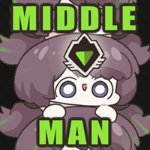
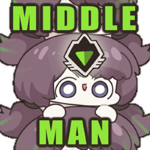
update emblems

diff --git a/djmax_bests/image_generate.py b/djmax_bests/image_generate.py
@@ -7,6 +7,8 @@ from random import random
 
 IMAGE_PATH = os.path.join(os.path.dirname(__file__), "images")
 FONT_PATH = os.path.join(os.path.dirname(__file__), "fonts")
+EMBLEM_PATH = os.path.join(IMAGE_PATH, "emblems")
+EMBLEM_BG_PATH = os.path.join(IMAGE_PATH, "emblem_bg")
 
 def generate_single_song(idx: int, type: str, song: models.DMSong) -> Image.Image:
     overlay = Image.open(os.path.join(IMAGE_PATH, f"{type}_card.png"))
@@ -49,6 +51,7 @@ def generate_bests_image(data: models.DMBests) -> Image.Image:
     basic_start = (100, 688)
     new_start = (100, 3398)
     bmode_strip_box = (119, 36, 151, 468)
+    emblem_lt = (1029, 154)
 
     bg = Image.open(os.path.join(IMAGE_PATH, "bg.png"))
     draw = ImageDraw.Draw(bg)
@@ -61,13 +64,15 @@ def generate_bests_image(data: models.DMBests) -> Image.Image:
     djpower_desc = util.format_djpower_tier(djpower_tier, djpower_level)
     djpower_color = constants.DJPOWER_TIER_COLOR[djpower_tier]
 
-    if djpower_tier == "middleman" and random() < 0.1:
+    if random() < 0.1 and os.path.exists(os.path.join(EMBLEM_PATH, f"{djpower_tier}_0.png")): # Easter egg
         djpower_level = 0
-    else: # this is just a temporary solution and should be removed later
-        djpower_level = ""
 
-    emblem = Image.open(os.path.join(IMAGE_PATH, 'emblems', f"{djpower_tier}_{djpower_level}.png")).resize((370, 370))
-    bg.paste(emblem, (1034, 159))
+    if os.path.exists(os.path.join(EMBLEM_BG_PATH, f"{data.username}.png")):
+        emblem_bg = Image.open(os.path.join(EMBLEM_BG_PATH, f"{data.username}.png")).resize((380, 380))
+        bg.alpha_composite(emblem_bg, emblem_lt)
+
+    emblem = Image.open(os.path.join(EMBLEM_PATH, f"{djpower_tier}_{djpower_level}.png")).resize((380, 380))
+    bg.alpha_composite(emblem, emblem_lt)
     draw.rectangle(bmode_strip_box, fill=constants.BMODE_COLOR[data.bmode])
     draw.text((282, 370), data.bmode, font=font_bd, fill='white', anchor="ms")
     draw.text((1535, 212), data.username, font=font_rg, fill='white', anchor="lm")

diff --git a/djmax_bests/util.py b/djmax_bests/util.py
@@ -8,9 +8,9 @@ def get_overridden_dlc_name(dlc_code: str, og_name: str) -> str:
 
 def get_djpower_tier(djpower: Decimal) -> tuple[str, int]:
     if djpower >= 9980:
-        return "lord", 0
+        return "lord", 1
     elif djpower < 500:
-        return "beginner", 0
+        return "beginner", 1
 
     for tier, threshold_list in constants.DJPOWER_TIER_MAP:
         for idx, threshold in enumerate(threshold_list):
